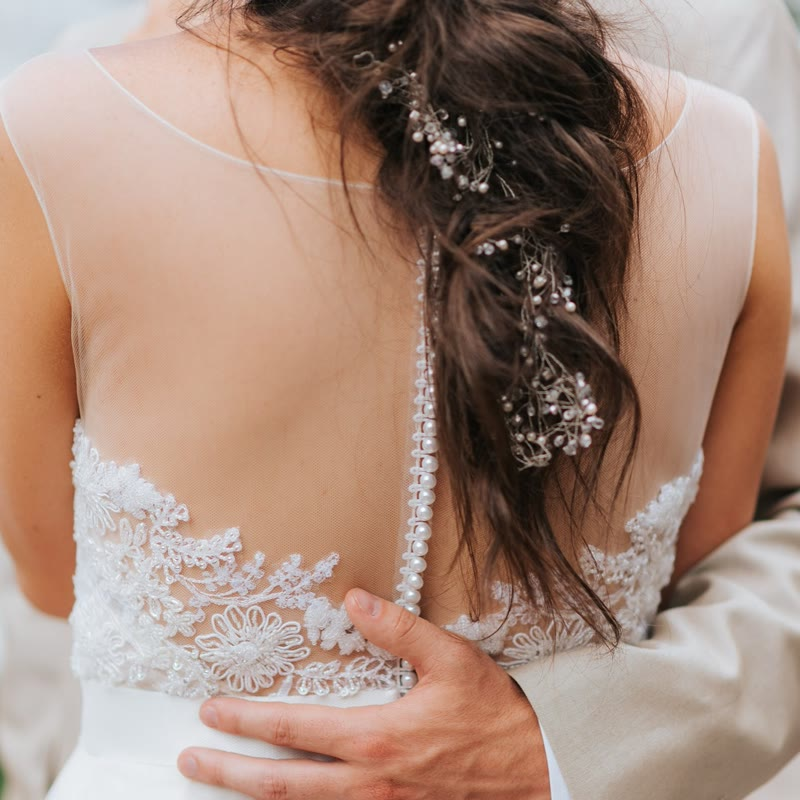
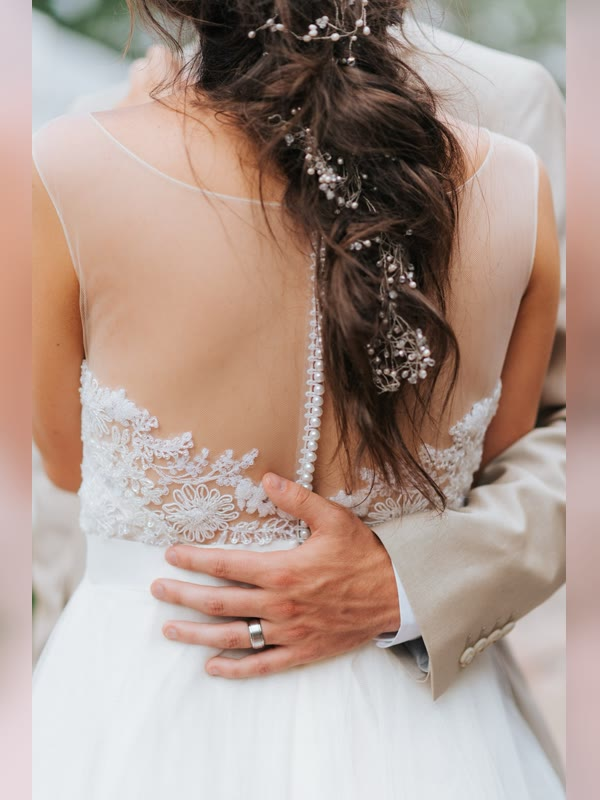
카톡 공유 카드: 3:4 세로, 사진을 자르지 않고 통째로 (얼굴·손 잘림 방지)

diff --git a/index.html b/index.html
@@ -8,7 +8,7 @@
   <meta property="og:type" content="website" />
   <meta property="og:title" content="김민준 ♥ 박서연 결혼합니다" />
   <meta property="og:description" content="5월 22일 토요일 오후 1시 30분, 라온웨딩홀" />
-  <meta property="og:image" content="https://josminum-dotcom.github.io/kihyun_wedding/images/og/1.jpg?v=202610151205" />
+  <meta property="og:image" content="https://josminum-dotcom.github.io/kihyun_wedding/images/og/1.jpg?v=202610151210" />
   <meta property="og:image:width" content="800" />
   <meta property="og:image:height" content="400" />
   <meta property="og:url" content="https://josminum-dotcom.github.io/kihyun_wedding/" />
@@ -22,7 +22,7 @@
     rel="stylesheet"
   />
 
-  <link rel="stylesheet" href="styles.css?v=202610151205" />
+  <link rel="stylesheet" href="styles.css?v=202610151210" />
 </head>
 <body>
 
@@ -218,7 +218,7 @@
     <source src="bgm.mp3" type="audio/mpeg">
   </audio>
 
-  <script src="config.js?v=202610151205"></script>
-  <script src="script.js?v=202610151205"></script>
+  <script src="config.js?v=202610151210"></script>
+  <script src="script.js?v=202610151210"></script>
 </body>
 </html>

diff --git a/script.js b/script.js
@@ -607,8 +607,8 @@
             title: CONFIG.meta.title,
             description: CONFIG.meta.description,
             imageUrl: base + 'images/og/share.jpg?v=' + (CONFIG.ogVersion || ''),
-            imageWidth: 800,
-            imageHeight: 800,
+            imageWidth: CONFIG.shareImageSize[0],
+            imageHeight: CONFIG.shareImageSize[1],
             link: { mobileWebUrl: url, webUrl: url },
           },
           buttons: [{ title: '청첩장 보기', link: { mobileWebUrl: url, webUrl: url } }],

diff --git a/config.js b/config.js
@@ -70,6 +70,10 @@ const CONFIG = {
   },
   "musicCredit": "",
   "siteUrl": "https://josminum-dotcom.github.io/kihyun_wedding/",
-  "ogVersion": "202610151205",
+  "ogVersion": "202610151210",
+  "shareImageSize": [
+    600,
+    800
+  ],
   "kakaoKey": "6a196fe64b45a5cddd7ce320d6d2cf83"
 };
